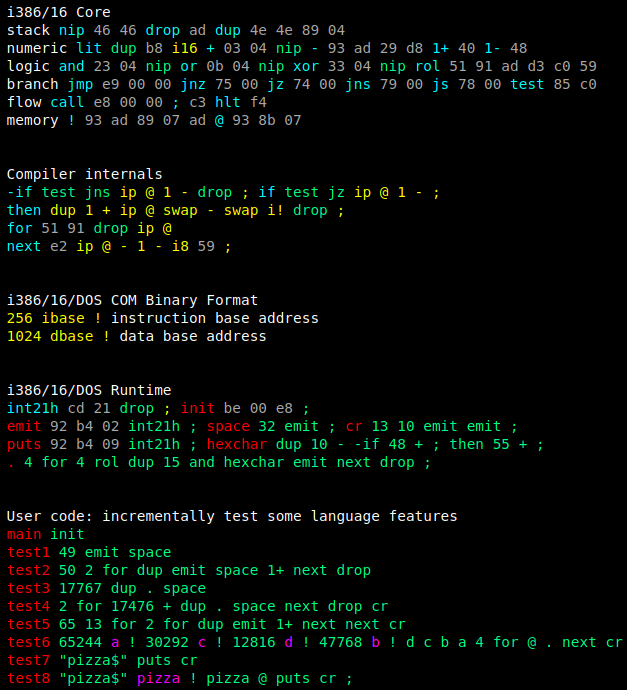
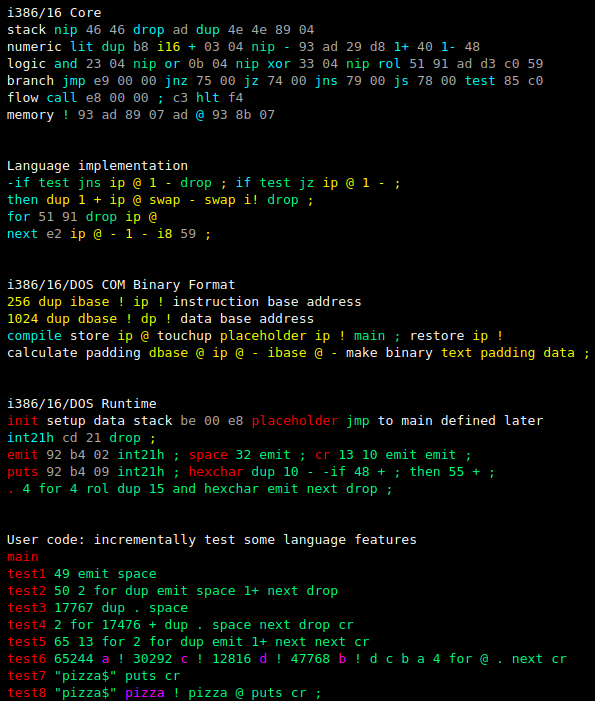
more generic python framework

diff --git a/tests/dos.html b/tests/dos.html
@@ -1,0 +1,1 @@
+<html><body style="background: black; font-family: monospace"><pre><span title="comment" style="background: black; color: #fff">i386/16</span> <span title="comment" style="background: black; color: #fff">Core</span> <br><span title="comment" style="background: black; color: #fff">stack</span> <span title="macro definition" style="background: black; color: #00FFFF">nip</span> <span title="machine code" style="background: black; color: #aaaaaa">46</span> <span title="machine code" style="background: black; color: #aaaaaa">46</span> <span title="macro definition" style="background: black; color: #00FFFF">drop</span> <span title="machine code" style="background: black; color: #aaaaaa">ad</span> <span title="macro definition" style="background: black; color: #00FFFF">dup</span> <span title="machine code" style="background: black; color: #aaaaaa">4e</span> <span title="machine code" style="background: black; color: #aaaaaa">4e</span> <span title="machine code" style="background: black; color: #aaaaaa">89</span> <span title="machine code" style="background: black; color: #aaaaaa">04</span> <br><span title="comment" style="background: black; color: #fff">numeric</span> <span title="macro definition" style="background: black; color: #00FFFF">lit</span> <span title="compiled call, word, literal" style="background: black; color: #00FF7F">dup</span> <span title="machine code" style="background: black; color: #aaaaaa">b8</span> <span title="macro execution" style="background: black; color: #FFFF00">i16</span> <span title="macro definition" style="background: black; color: #00FFFF">+</span> <span title="machine code" style="background: black; color: #aaaaaa">03</span> <span title="machine code" style="background: black; color: #aaaaaa">04</span> <span title="compiled call, word, literal" style="background: black; color: #00FF7F">nip</span> <span title="macro definition" style="background: black; color: #00FFFF">-</span> <span title="machine code" style="background: black; color: #aaaaaa">93</span> <span title="machine code" style="background: black; color: #aaaaaa">ad</span> <span title="machine code" style="background: black; color: #aaaaaa">29</span> <span title="machine code" style="background: black; color: #aaaaaa">d8</span> <span title="macro definition" style="background: black; color: #00FFFF">1+</span> <span title="machine code" style="background: black; color: #aaaaaa">40</span> <span title="macro definition" style="background: black; color: #00FFFF">1-</span> <span title="machine code" style="background: black; color: #aaaaaa">48</span> <br><span title="comment" style="background: black; color: #fff">logic</span> <span title="macro definition" style="background: black; color: #00FFFF">and</span> <span title="machine code" style="background: black; color: #aaaaaa">23</span> <span title="machine code" style="background: black; color: #aaaaaa">04</span> <span title="compiled call, word, literal" style="background: black; color: #00FF7F">nip</span> <span title="macro definition" style="background: black; color: #00FFFF">or</span> <span title="machine code" style="background: black; color: #aaaaaa">0b</span> <span title="machine code" style="background: black; color: #aaaaaa">04</span> <span title="compiled call, word, literal" style="background: black; color: #00FF7F">nip</span> <span title="macro definition" style="background: black; color: #00FFFF">xor</span> <span title="machine code" style="background: black; color: #aaaaaa">33</span> <span title="machine code" style="background: black; color: #aaaaaa">04</span> <span title="compiled call, word, literal" style="background: black; color: #00FF7F">nip</span> <span title="macro definition" style="background: black; color: #00FFFF">rol</span> <span title="machine code" style="background: black; color: #aaaaaa">51</span> <span title="machine code" style="background: black; color: #aaaaaa">91</span> <span title="machine code" style="background: black; color: #aaaaaa">ad</span> <span title="machine code" style="background: black; color: #aaaaaa">d3</span> <span title="machine code" style="background: black; color: #aaaaaa">c0</span> <span title="machine code" style="background: black; color: #aaaaaa">59</span> <br><span title="comment" style="background: black; color: #fff">branch</span> <span title="macro definition" style="background: black; color: #00FFFF">jmp</span> <span title="machine code" style="background: black; color: #aaaaaa">e9</span> <span title="machine code" style="background: black; color: #aaaaaa">00</span> <span title="machine code" style="background: black; color: #aaaaaa">00</span> <span title="macro definition" style="background: black; color: #00FFFF">jnz</span> <span title="machine code" style="background: black; color: #aaaaaa">75</span> <span title="machine code" style="background: black; color: #aaaaaa">00</span> <span title="macro definition" style="background: black; color: #00FFFF">jz</span> <span title="machine code" style="background: black; color: #aaaaaa">74</span> <span title="machine code" style="background: black; color: #aaaaaa">00</span> <span title="macro definition" style="background: black; color: #00FFFF">jns</span> <span title="machine code" style="background: black; color: #aaaaaa">79</span> <span title="machine code" style="background: black; color: #aaaaaa">00</span> <span title="macro definition" style="background: black; color: #00FFFF">js</span> <span title="machine code" style="background: black; color: #aaaaaa">78</span> <span title="machine code" style="background: black; color: #aaaaaa">00</span> <span title="macro definition" style="background: black; color: #00FFFF">test</span> <span title="machine code" style="background: black; color: #aaaaaa">85</span> <span title="machine code" style="background: black; color: #aaaaaa">c0</span> <br><span title="comment" style="background: black; color: #fff">flow</span> <span title="macro definition" style="background: black; color: #00FFFF">call</span> <span title="machine code" style="background: black; color: #aaaaaa">e8</span> <span title="machine code" style="background: black; color: #aaaaaa">00</span> <span title="machine code" style="background: black; color: #aaaaaa">00</span> <span title="macro definition" style="background: black; color: #00FFFF">;</span> <span title="machine code" style="background: black; color: #aaaaaa">c3</span> <span title="macro definition" style="background: black; color: #00FFFF">hlt</span> <span title="machine code" style="background: black; color: #aaaaaa">f4</span> <br><span title="comment" style="background: black; color: #fff">memory</span> <span title="macro definition" style="background: black; color: #00FFFF">!</span> <span title="machine code" style="background: black; color: #aaaaaa">93</span> <span title="machine code" style="background: black; color: #aaaaaa">ad</span> <span title="machine code" style="background: black; color: #aaaaaa">89</span> <span title="machine code" style="background: black; color: #aaaaaa">07</span> <span title="machine code" style="background: black; color: #aaaaaa">ad</span> <span title="macro definition" style="background: black; color: #00FFFF">@</span> <span title="machine code" style="background: black; color: #aaaaaa">93</span> <span title="machine code" style="background: black; color: #aaaaaa">8b</span> <span title="machine code" style="background: black; color: #aaaaaa">07</span> <br><br><br><span title="comment" style="background: black; color: #fff">Language</span> <span title="comment" style="background: black; color: #fff">implementation</span> <br><span title="macro definition" style="background: black; color: #00FFFF">-if</span> <span title="compiled call, word, literal" style="background: black; color: #00FF7F">test</span> <span title="compiled call, word, literal" style="background: black; color: #00FF7F">jns</span> <span title="macro execution" style="background: black; color: #FFFF00">ip</span> <span title="macro execution" style="background: black; color: #FFFF00">@</span> <span title="macro execution" style="background: black; color: #FFFF00">1</span> <span title="macro execution" style="background: black; color: #FFFF00">-</span> <span title="compiled call, word, literal" style="background: black; color: #00FF7F">drop</span> <span title="macro execution" style="background: black; color: #FFFF00">;</span> <span title="macro definition" style="background: black; color: #00FFFF">if</span> <span title="compiled call, word, literal" style="background: black; color: #00FF7F">test</span> <span title="compiled call, word, literal" style="background: black; color: #00FF7F">jz</span> <span title="macro execution" style="background: black; color: #FFFF00">ip</span> <span title="macro execution" style="background: black; color: #FFFF00">@</span> <span title="macro execution" style="background: black; color: #FFFF00">1</span> <span title="macro execution" style="background: black; color: #FFFF00">-</span> <span title="macro execution" style="background: black; color: #FFFF00">;</span> <br><span title="macro definition" style="background: black; color: #00FFFF">then</span> <span title="macro execution" style="background: black; color: #FFFF00">dup</span> <span title="macro execution" style="background: black; color: #FFFF00">1</span> <span title="macro execution" style="background: black; color: #FFFF00">+</span> <span title="macro execution" style="background: black; color: #FFFF00">ip</span> <span title="macro execution" style="background: black; color: #FFFF00">@</span> <span title="macro execution" style="background: black; color: #FFFF00">swap</span> <span title="macro execution" style="background: black; color: #FFFF00">-</span> <span title="macro execution" style="background: black; color: #FFFF00">swap</span> <span title="macro execution" style="background: black; color: #FFFF00">i!</span> <span title="compiled call, word, literal" style="background: black; color: #00FF7F">drop</span> <span title="macro execution" style="background: black; color: #FFFF00">;</span> <br><span title="macro definition" style="background: black; color: #00FFFF">for</span> <span title="machine code" style="background: black; color: #aaaaaa">51</span> <span title="machine code" style="background: black; color: #aaaaaa">91</span> <span title="compiled call, word, literal" style="background: black; color: #00FF7F">drop</span> <span title="macro execution" style="background: black; color: #FFFF00">ip</span> <span title="macro execution" style="background: black; color: #FFFF00">@</span> <br><span title="macro definition" style="background: black; color: #00FFFF">next</span> <span title="machine code" style="background: black; color: #aaaaaa">e2</span> <span title="macro execution" style="background: black; color: #FFFF00">ip</span> <span title="macro execution" style="background: black; color: #FFFF00">@</span> <span title="macro execution" style="background: black; color: #FFFF00">-</span> <span title="macro execution" style="background: black; color: #FFFF00">1</span> <span title="macro execution" style="background: black; color: #FFFF00">-</span> <span title="macro execution" style="background: black; color: #FFFF00">i8</span> <span title="machine code" style="background: black; color: #aaaaaa">59</span> <span title="macro execution" style="background: black; color: #FFFF00">;</span> <br><br><br><span title="comment" style="background: black; color: #fff">i386/16/DOS</span> <span title="comment" style="background: black; color: #fff">COM</span> <span title="comment" style="background: black; color: #fff">Binary</span> <span title="comment" style="background: black; color: #fff">Format</span> <br><span title="macro execution" style="background: black; color: #FFFF00">256</span> <span title="macro execution" style="background: black; color: #FFFF00">dup</span> <span title="macro execution" style="background: black; color: #FFFF00">ibase</span> <span title="macro execution" style="background: black; color: #FFFF00">!</span> <span title="macro execution" style="background: black; color: #FFFF00">ip</span> <span title="macro execution" style="background: black; color: #FFFF00">!</span> <span title="comment" style="background: black; color: #fff">instruction</span> <span title="comment" style="background: black; color: #fff">base</span> <span title="comment" style="background: black; color: #fff">address</span> <br><span title="macro execution" style="background: black; color: #FFFF00">1024</span> <span title="macro execution" style="background: black; color: #FFFF00">dup</span> <span title="macro execution" style="background: black; color: #FFFF00">dbase</span> <span title="macro execution" style="background: black; color: #FFFF00">!</span> <span title="macro execution" style="background: black; color: #FFFF00">dp</span> <span title="macro execution" style="background: black; color: #FFFF00">!</span> <span title="comment" style="background: black; color: #fff">data</span> <span title="comment" style="background: black; color: #fff">base</span> <span title="comment" style="background: black; color: #fff">address</span> <br><span title="macro definition" style="background: black; color: #00FFFF">compile</span> <span title="comment" style="background: black; color: #fff">store</span> <span title="macro execution" style="background: black; color: #FFFF00">ip</span> <span title="macro execution" style="background: black; color: #FFFF00">@</span> <span title="comment" style="background: black; color: #fff">touchup</span> <span title="macro execution" style="background: black; color: #FFFF00">placeholder</span> <span title="macro execution" style="background: black; color: #FFFF00">ip</span> <span title="macro execution" style="background: black; color: #FFFF00">!</span> <span title="compiled call, word, literal" style="background: black; color: #00FF7F">main</span> <span title="compiled call, word, literal" style="background: black; color: #00FF7F">;</span> <span title="comment" style="background: black; color: #fff">restore</span> <span title="macro execution" style="background: black; color: #FFFF00">ip</span> <span title="macro execution" style="background: black; color: #FFFF00">!</span> <br><span title="comment" style="background: black; color: #fff">calculate</span> <span title="comment" style="background: black; color: #fff">padding</span> <span title="macro execution" style="background: black; color: #FFFF00">dbase</span> <span title="macro execution" style="background: black; color: #FFFF00">@</span> <span title="macro execution" style="background: black; color: #FFFF00">ip</span> <span title="macro execution" style="background: black; color: #FFFF00">@</span> <span title="macro execution" style="background: black; color: #FFFF00">-</span> <span title="macro execution" style="background: black; color: #FFFF00">ibase</span> <span title="macro execution" style="background: black; color: #FFFF00">@</span> <span title="macro execution" style="background: black; color: #FFFF00">-</span> <span title="comment" style="background: black; color: #fff">make</span> <span title="comment" style="background: black; color: #fff">binary</span> <span title="macro execution" style="background: black; color: #FFFF00">text</span> <span title="macro execution" style="background: black; color: #FFFF00">padding</span> <span title="macro execution" style="background: black; color: #FFFF00">data</span> <span title="macro execution" style="background: black; color: #FFFF00">;</span> <br><br><br><span title="comment" style="background: black; color: #fff">i386/16/DOS</span> <span title="comment" style="background: black; color: #fff">Runtime</span> <br><span title="word definition" style="background: black; color: #ff0000">init</span> <span title="comment" style="background: black; color: #fff">setup</span> <span title="comment" style="background: black; color: #fff">data</span> <span title="comment" style="background: black; color: #fff">stack</span> <span title="machine code" style="background: black; color: #aaaaaa">be</span> <span title="machine code" style="background: black; color: #aaaaaa">00</span> <span title="machine code" style="background: black; color: #aaaaaa">e8</span> <span title="word definition" style="background: black; color: #ff0000">placeholder</span> <span title="compiled call, word, literal" style="background: black; color: #00FF7F">jmp</span> <span title="comment" style="background: black; color: #fff">to</span> <span title="comment" style="background: black; color: #fff">main</span> <span title="comment" style="background: black; color: #fff">defined</span> <span title="comment" style="background: black; color: #fff">later</span> <br><span title="macro definition" style="background: black; color: #00FFFF">int21h</span> <span title="machine code" style="background: black; color: #aaaaaa">cd</span> <span title="machine code" style="background: black; color: #aaaaaa">21</span> <span title="compiled call, word, literal" style="background: black; color: #00FF7F">drop</span> <span title="macro execution" style="background: black; color: #FFFF00">;</span> <br><span title="word definition" style="background: black; color: #ff0000">emit</span> <span title="machine code" style="background: black; color: #aaaaaa">92</span> <span title="machine code" style="background: black; color: #aaaaaa">b4</span> <span title="machine code" style="background: black; color: #aaaaaa">02</span> <span title="compiled call, word, literal" style="background: black; color: #00FF7F">int21h</span> <span title="compiled call, word, literal" style="background: black; color: #00FF7F">;</span> <span title="word definition" style="background: black; color: #ff0000">space</span> <span title="compiled call, word, literal" style="background: black; color: #00FF7F">32</span> <span title="compiled call, word, literal" style="background: black; color: #00FF7F">emit</span> <span title="compiled call, word, literal" style="background: black; color: #00FF7F">;</span> <span title="word definition" style="background: black; color: #ff0000">cr</span> <span title="compiled call, word, literal" style="background: black; color: #00FF7F">13</span> <span title="compiled call, word, literal" style="background: black; color: #00FF7F">10</span> <span title="compiled call, word, literal" style="background: black; color: #00FF7F">emit</span> <span title="compiled call, word, literal" style="background: black; color: #00FF7F">emit</span> <span title="compiled call, word, literal" style="background: black; color: #00FF7F">;</span> <br><span title="word definition" style="background: black; color: #ff0000">puts</span> <span title="machine code" style="background: black; color: #aaaaaa">92</span> <span title="machine code" style="background: black; color: #aaaaaa">b4</span> <span title="machine code" style="background: black; color: #aaaaaa">09</span> <span title="compiled call, word, literal" style="background: black; color: #00FF7F">int21h</span> <span title="compiled call, word, literal" style="background: black; color: #00FF7F">;</span> <span title="word definition" style="background: black; color: #ff0000">hexchar</span> <span title="compiled call, word, literal" style="background: black; color: #00FF7F">dup</span> <span title="compiled call, word, literal" style="background: black; color: #00FF7F">10</span> <span title="compiled call, word, literal" style="background: black; color: #00FF7F">-</span> <span title="compiled call, word, literal" style="background: black; color: #00FF7F">-if</span> <span title="compiled call, word, literal" style="background: black; color: #00FF7F">48</span> <span title="compiled call, word, literal" style="background: black; color: #00FF7F">+</span> <span title="compiled call, word, literal" style="background: black; color: #00FF7F">;</span> <span title="compiled call, word, literal" style="background: black; color: #00FF7F">then</span> <span title="compiled call, word, literal" style="background: black; color: #00FF7F">55</span> <span title="compiled call, word, literal" style="background: black; color: #00FF7F">+</span> <span title="compiled call, word, literal" style="background: black; color: #00FF7F">;</span> <br><span title="word definition" style="background: black; color: #ff0000">.</span> <span title="compiled call, word, literal" style="background: black; color: #00FF7F">4</span> <span title="compiled call, word, literal" style="background: black; color: #00FF7F">for</span> <span title="compiled call, word, literal" style="background: black; color: #00FF7F">4</span> <span title="compiled call, word, literal" style="background: black; color: #00FF7F">rol</span> <span title="compiled call, word, literal" style="background: black; color: #00FF7F">dup</span> <span title="compiled call, word, literal" style="background: black; color: #00FF7F">15</span> <span title="compiled call, word, literal" style="background: black; color: #00FF7F">and</span> <span title="compiled call, word, literal" style="background: black; color: #00FF7F">hexchar</span> <span title="compiled call, word, literal" style="background: black; color: #00FF7F">emit</span> <span title="compiled call, word, literal" style="background: black; color: #00FF7F">next</span> <span title="compiled call, word, literal" style="background: black; color: #00FF7F">drop</span> <span title="compiled call, word, literal" style="background: black; color: #00FF7F">;</span> <br><br><br><span title="comment" style="background: black; color: #fff">User</span> <span title="comment" style="background: black; color: #fff">code:</span> <span title="comment" style="background: black; color: #fff">incrementally</span> <span title="comment" style="background: black; color: #fff">test</span> <span title="comment" style="background: black; color: #fff">some</span> <span title="comment" style="background: black; color: #fff">language</span> <span title="comment" style="background: black; color: #fff">features</span> <br><span title="word definition" style="background: black; color: #ff0000">main</span> <br><span title="word definition" style="background: black; color: #ff0000">test1</span> <span title="compiled call, word, literal" style="background: black; color: #00FF7F">49</span> <span title="compiled call, word, literal" style="background: black; color: #00FF7F">emit</span> <span title="compiled call, word, literal" style="background: black; color: #00FF7F">space</span> <br><span title="word definition" style="background: black; color: #ff0000">test2</span> <span title="compiled call, word, literal" style="background: black; color: #00FF7F">50</span> <span title="compiled call, word, literal" style="background: black; color: #00FF7F">2</span> <span title="compiled call, word, literal" style="background: black; color: #00FF7F">for</span> <span title="compiled call, word, literal" style="background: black; color: #00FF7F">dup</span> <span title="compiled call, word, literal" style="background: black; color: #00FF7F">emit</span> <span title="compiled call, word, literal" style="background: black; color: #00FF7F">space</span> <span title="compiled call, word, literal" style="background: black; color: #00FF7F">1+</span> <span title="compiled call, word, literal" style="background: black; color: #00FF7F">next</span> <span title="compiled call, word, literal" style="background: black; color: #00FF7F">drop</span> <br><span title="word definition" style="background: black; color: #ff0000">test3</span> <span title="compiled call, word, literal" style="background: black; color: #00FF7F">17767</span> <span title="compiled call, word, literal" style="background: black; color: #00FF7F">dup</span> <span title="compiled call, word, literal" style="background: black; color: #00FF7F">.</span> <span title="compiled call, word, literal" style="background: black; color: #00FF7F">space</span> <br><span title="word definition" style="background: black; color: #ff0000">test4</span> <span title="compiled call, word, literal" style="background: black; color: #00FF7F">2</span> <span title="compiled call, word, literal" style="background: black; color: #00FF7F">for</span> <span title="compiled call, word, literal" style="background: black; color: #00FF7F">17476</span> <span title="compiled call, word, literal" style="background: black; color: #00FF7F">+</span> <span title="compiled call, word, literal" style="background: black; color: #00FF7F">dup</span> <span title="compiled call, word, literal" style="background: black; color: #00FF7F">.</span> <span title="compiled call, word, literal" style="background: black; color: #00FF7F">space</span> <span title="compiled call, word, literal" style="background: black; color: #00FF7F">next</span> <span title="compiled call, word, literal" style="background: black; color: #00FF7F">drop</span> <span title="compiled call, word, literal" style="background: black; color: #00FF7F">cr</span> <br><span title="word definition" style="background: black; color: #ff0000">test5</span> <span title="compiled call, word, literal" style="background: black; color: #00FF7F">65</span> <span title="compiled call, word, literal" style="background: black; color: #00FF7F">13</span> <span title="compiled call, word, literal" style="background: black; color: #00FF7F">for</span> <span title="compiled call, word, literal" style="background: black; color: #00FF7F">2</span> <span title="compiled call, word, literal" style="background: black; color: #00FF7F">for</span> <span title="compiled call, word, literal" style="background: black; color: #00FF7F">dup</span> <span title="compiled call, word, literal" style="background: black; color: #00FF7F">emit</span> <span title="compiled call, word, literal" style="background: black; color: #00FF7F">1+</span> <span title="compiled call, word, literal" style="background: black; color: #00FF7F">next</span> <span title="compiled call, word, literal" style="background: black; color: #00FF7F">next</span> <span title="compiled call, word, literal" style="background: black; color: #00FF7F">cr</span> <br><span title="word definition" style="background: black; color: #ff0000">test6</span> <span title="compiled call, word, literal" style="background: black; color: #00FF7F">65244</span> <span title="variable declaration" style="background: black; color: #FF00FF">a</span> <span title="compiled call, word, literal" style="background: black; color: #00FF7F">!</span> <span title="compiled call, word, literal" style="background: black; color: #00FF7F">30292</span> <span title="variable declaration" style="background: black; color: #FF00FF">c</span> <span title="compiled call, word, literal" style="background: black; color: #00FF7F">!</span> <span title="compiled call, word, literal" style="background: black; color: #00FF7F">12816</span> <span title="variable declaration" style="background: black; color: #FF00FF">d</span> <span title="compiled call, word, literal" style="background: black; color: #00FF7F">!</span> <span title="compiled call, word, literal" style="background: black; color: #00FF7F">47768</span> <span title="variable declaration" style="background: black; color: #FF00FF">b</span> <span title="compiled call, word, literal" style="background: black; color: #00FF7F">!</span> <span title="compiled call, word, literal" style="background: black; color: #00FF7F">d</span> <span title="compiled call, word, literal" style="background: black; color: #00FF7F">c</span> <span title="compiled call, word, literal" style="background: black; color: #00FF7F">b</span> <span title="compiled call, word, literal" style="background: black; color: #00FF7F">a</span> <span title="compiled call, word, literal" style="background: black; color: #00FF7F">4</span> <span title="compiled call, word, literal" style="background: black; color: #00FF7F">for</span> <span title="compiled call, word, literal" style="background: black; color: #00FF7F">@</span> <span title="compiled call, word, literal" style="background: black; color: #00FF7F">.</span> <span title="compiled call, word, literal" style="background: black; color: #00FF7F">next</span> <span title="compiled call, word, literal" style="background: black; color: #00FF7F">cr</span> <br><span title="word definition" style="background: black; color: #ff0000">test7</span> <span title="compiled call, word, literal" style="background: black; color: #00FF7F">"pizza$"</span> <span title="compiled call, word, literal" style="background: black; color: #00FF7F">puts</span> <span title="compiled call, word, literal" style="background: black; color: #00FF7F">cr</span> <br><span title="word definition" style="background: black; color: #ff0000">test8</span> <span title="compiled call, word, literal" style="background: black; color: #00FF7F">"pizza$"</span> <span title="variable declaration" style="background: black; color: #FF00FF">pizza</span> <span title="compiled call, word, literal" style="background: black; color: #00FF7F">!</span> <span title="compiled call, word, literal" style="background: black; color: #00FF7F">pizza</span> <span title="compiled call, word, literal" style="background: black; color: #00FF7F">@</span> <span title="compiled call, word, literal" style="background: black; color: #00FF7F">puts</span> <span title="compiled call, word, literal" style="background: black; color: #00FF7F">cr</span> <span title="compiled call, word, literal" style="background: black; color: #00FF7F">;</span> <br><br><br></pre></body></html>

diff --git a/compiler.py b/compiler.py
@@ -3,36 +3,36 @@ from common import Colour, Token
 from formatter import Formatter
 
 class Compiler:
-    def __init__(self, tokens):
+    def __init__(self, tokens, f):
         self._tokens = tokens
         self._macros = {}
         self._definitions = {}
         self._variables = {}
 
-        self._text = bytearray([0xe9, 0, 0])
+        self._f = f
+        self._text = bytearray([])
         self._data = bytearray([])
 
         self._stack = []
 
-        self._compiler_vars = {
-            "ip": self.ip,
-            "dp": self.dp,
-            "ibase": 0x100,
-            "dbase": 0x300             
-        }
+        self._compiler_vars = {"ip": 0, "dp": 0, "ibase": 0, "dbase": 0}
 
-    def ibase(self):
-        return self._compiler_vars["ibase"]
 
-    def dbase(self):
-        return self._compiler_vars["dbase"]
+    def write_text(self, add):
+        size = len(add)
+        start = self._compiler_vars["ip"] - self._compiler_vars["ibase"]
+        end = start + size
+        self._text.extend(bytes([0]) * (len(self._text) - end))
+        self._text[start:end] = add
+        self._compiler_vars["ip"] += size
 
-    def ip(self):
-        return self.ibase() + len(self._text)
-
-    def dp(self):
-        return self.dbase() + len(self._data)
-
+    def write_data(self, add):
+        size = len(add)
+        start = self._compiler_vars["dp"] - self._compiler_vars["dbase"] 
+        end = start + size
+        self._data.extend(bytes([0]) * (len(self._data) - end))
+        self._data[start:end] = add
+        self._compiler_vars["dp"] += size
 
     def macro_define_word(self, name, i, tokens): # cyan
         self._macros[name] = []
@@ -50,7 +50,7 @@ class Compiler:
         self._compile(self._macros["lit"])
 
     def i16(self, x):
-        self._text.extend(x.to_bytes(2, byteorder="little", signed=x < 0))
+        self.write_text(x.to_bytes(2, byteorder="little", signed=x < 0))
 
     def macro_call_word(self, word): # yellow
         if type(word.val) == int:
@@ -69,16 +69,16 @@ class Compiler:
         elif word.val == "i!":
             loc = self._stack.pop()
             val = self._stack.pop().to_bytes(1, byteorder="little", signed=True)[0]
-            self._text[loc - self.ibase()] = val
+            self._text[loc - self._compiler_vars["ibase"]] = val
 
         elif word.val == "i8":
-            self._text.extend(self._stack.pop().to_bytes(1, byteorder="little", signed=True))
+            self.write_text(self._stack.pop().to_bytes(1, byteorder="little", signed=True))
 
         elif word.val == "i16":
             self.i16(self._stack.pop())
 
         elif word.val == "@":
-            self._stack.append( self._compiler_vars[self._stack.pop()]())
+            self._stack.append( self._compiler_vars[self._stack.pop()])
 
         elif word.val == "drop":
             self._stack.pop()
@@ -89,8 +89,20 @@ class Compiler:
         elif word.val == "swap":
             self._stack[-1], self._stack[-2] = self._stack[-2], self._stack[-1]
 
+        elif word.val == "text":
+            self._f.write(self._text[:self._compiler_vars["ip"]])
+
+        elif word.val == "data":
+            self._f.write(self._data)
+
+        elif word.val == "padding":
+            self._f.write(bytes([0]) * self._stack.pop())
+
         elif word.val in self._compiler_vars:
             self._stack.append(word.val)
+
+        elif word.val in self._definitions:
+            self._stack.append(self._definitions[word.val])
 
         else:
             raise ValueError(f"unsupported #todo {word.val}")
@@ -100,7 +112,7 @@ class Compiler:
         if word.val in self._macros:
             self._compile(self._macros[word.val])
         elif word.val in self._definitions:
-            offset = (self._definitions[word.val] - self.ip() - 3).to_bytes(2, byteorder="little", signed=True)
+            offset = (self._definitions[word.val] - self._compiler_vars["ip"] - 3).to_bytes(2, byteorder="little", signed=True)
 
             if next.val == ';': # tail rec
                 op = self._macros["jmp"]
@@ -109,7 +121,8 @@ class Compiler:
                 op = self._macros["call"]
 
             self._compile(op)
-            self._text[-2:] = offset
+            self._compiler_vars["ip"] -= 2
+            self.write_text(offset)
 
         elif word.val in self._variables:
             self.lit(self._variables[word.val])        
@@ -118,8 +131,8 @@ class Compiler:
             self.lit(word.val)
 
         elif word.val[0] == '"' and word.val[-1] == '"':
-            addr = self.dp()
-            self._data.extend(word.val[1:-1].encode())
+            addr = self._compiler_vars["dp"] 
+            self.write_data(word.val[1:-1].encode())
             self.lit(addr)
 
         else:
@@ -128,8 +141,8 @@ class Compiler:
         return consume
 
     def variable_define_word(self, word): # purple
-        self._variables[word.val] = self.dp()       
-        self._data.extend(bytes([0, 0]))
+        self._variables[word.val] = self._compiler_vars["dp"]     
+        self.write_data(bytes([0, 0]))
         self.lit(self._variables[word.val])        
 
     def _compile(self, tokens):
@@ -140,10 +153,10 @@ class Compiler:
             next = tokens[i+1] if i+1 < len(tokens) else None
 
             if curr.colour == Colour.MACHINE:
-                self._text.append(curr.val) # grey
+                self.write_text([curr.val]) # grey
 
             elif curr.colour == Colour.DEFINITION:
-                self._definitions[curr.val] = self.ip() # red
+                self._definitions[curr.val] = self._compiler_vars["ip"] # red
 
             elif curr.colour == Colour.INLINE:
                 i = self.macro_define_word(curr.val, i+1, tokens) # cyan
@@ -160,15 +173,10 @@ class Compiler:
             i += 1
 
 
-    def compile(self, f):
+    def compile(self,):
         self._compile(self._tokens)
-            
+        self._compile(self._macros['compile'])
 
-        self._text[1:3] = (self._definitions["main"] - self.ibase() - 3).to_bytes(2, byteorder="little", signed=True)
-        f.write(self._text)
-
-        f.write(bytes([0]) * (self.dbase() - (self.ibase() + len(self._text))))
-        f.write(self._data)
 
 
 if __name__ == '__main__':
@@ -177,5 +185,5 @@ if __name__ == '__main__':
     tokens = Lexer(open(sys.argv[1])).all
 
     Formatter(tokens).write(open(f"{base}.html", "w"))
-    Compiler(tokens).compile(open(f"{base}.com", "wb"))
+    Compiler(tokens, open(f"{base}.com", "wb")).compile()
 

diff --git a/lexer.py b/lexer.py
@@ -25,8 +25,6 @@ class Lexer:
 
             yield Token(Colour.DOC, "\n")
 
-        yield Token(Colour.DOC, "eof")
-
     @property
     def all(self):
         return list(iter(self._lex()))
